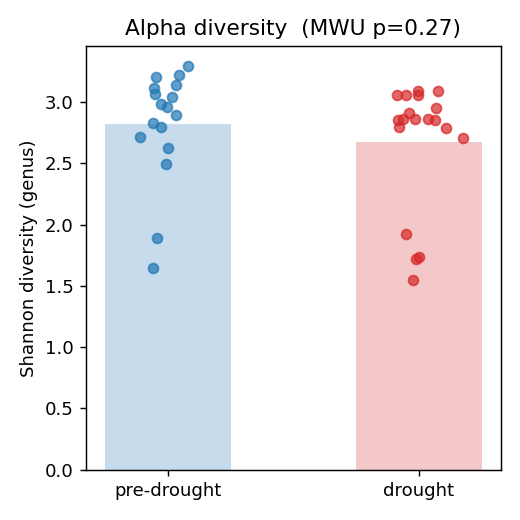
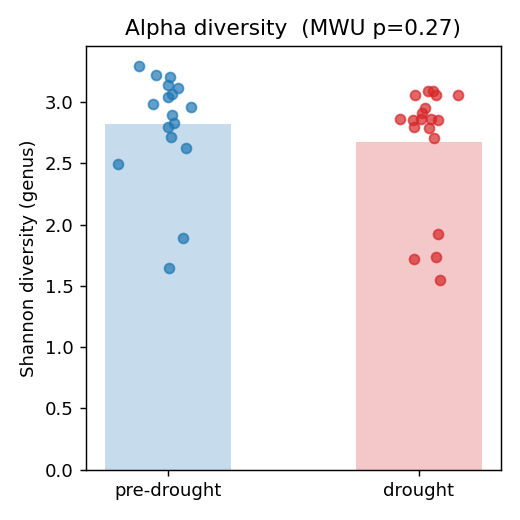
Add co-occurrence networks (Tier 4a); flag Sept/Nov sampling confound; condense stats prose per feedback

diff --git a/methods.html b/methods.html
@@ -120,8 +120,10 @@ large uncultured fraction of this enclosed ecosystem. Recovered genomes are scre
 stress pathways; strain dynamics of the dominant <i>Nitrospira</i> are assessed with inStrain
 (popANI/SNV), and Actinomycetota biosynthetic gene clusters with antiSMASH.</p>
 <h3>6.3 Ecological networks and viruses</h3>
-<p>Per-condition co-occurrence networks (FlashWeave) compare connectivity/modularity as a
-network-level convergence test; viral contigs are identified with geNomad.</p>
+<p>Per-condition genus co-occurrence networks (Spearman on CLR-transformed prevalent genera;
+edges at |ρ|≥0.6 and BH-FDR q&lt;0.05; connectance compared by label permutation) test
+network-level convergence. Viral contigs via geNomad; MAGs via MEGAHIT → MetaBAT2 → CheckM2 →
+GTDB-Tk (databases staged locally under <code>ebt-metagenomics/resources</code>).</p>
 
 <h2>7. Reproducibility</h2>
 <p>Profiling/QC in dedicated conda environments; statistics in Python 3.12 with scikit-bio,

diff --git a/scripts/tier4_networks.py b/scripts/tier4_networks.py
@@ -1,0 +1,111 @@
+#!/usr/bin/env python3
+"""
+TIER 4a — microbial co-occurrence networks, pre-drought vs drought (WGS genus).
+Tests a NETWORK-level version of the manuscript's convergence hypothesis: does
+drought simplify / fragment the co-occurrence structure (fewer edges, lower
+connectance, higher modularity)? Independent of the PCoA-dispersion test.
+
+Method: prevalent genera (present in >=25% of samples, mean >=0.1%), CLR-transformed,
+Spearman correlations within each condition; edges = |rho|>=0.6 AND BH-FDR q<0.05.
+Network metrics compared between conditions; significance of the edge-count difference
+by node-label permutation. Honest caveat: n=17/19 -> correlation networks are noisy,
+so this is exploratory and reported as such.
+
+Out: results/network_metrics.tsv, results/network_checks.txt ; figs/11_cooccurrence_networks.png
+"""
+import os, numpy as np, pandas as pd, warnings
+warnings.filterwarnings("ignore")
+import matplotlib; matplotlib.use("Agg"); import matplotlib.pyplot as plt
+import networkx as nx
+from scipy import stats
+from skbio.stats.composition import clr, multi_replace
+
+A="/mnt/disk4/timo/gbi/analysis"; FIG=f"{A}/figs"; RES=f"{A}/results"
+meta=pd.read_csv(f"{A}/metadata.tsv",sep="\t",index_col=0)
+genus=pd.read_csv(f"{A}/genus_relabund.tsv",sep="\t",index_col=0)
+samples=[s for s in genus.index if s in meta.index]; genus=genus.loc[samples]; md=meta.loc[samples]
+checks=[]
+
+# prevalent genera only (stabilises correlations)
+prev=(genus>0).mean(0); keep=genus.columns[(prev>=0.25)&(genus.mean(0)>=0.1)]
+G=genus[keep]
+print(f"{len(samples)} samples, {len(keep)}/{genus.shape[1]} prevalent genera kept")
+
+def clr_t(df):
+    M=df.values.astype(float); M=M/M.sum(1,keepdims=True); M=multi_replace(M)
+    return pd.DataFrame(clr(M),index=df.index,columns=df.columns)
+
+def bh(p):
+    p=np.asarray(p,float); o=np.argsort(p); r=p[o]; m=len(p)
+    q=np.minimum.accumulate((r*m/np.arange(1,m+1))[::-1])[::-1]
+    out=np.empty(m); out[o]=np.clip(q,0,1); return out
+
+def build_net(ids, rho_thr=0.6, q_thr=0.05):
+    sub=clr_t(G.loc[ids]); cols=list(sub.columns); n=len(cols)
+    rhos=[]; ps=[]; pairs=[]
+    for i in range(n):
+        for j in range(i+1,n):
+            rho,p=stats.spearmanr(sub.iloc[:,i],sub.iloc[:,j])
+            if np.isnan(rho): rho,p=0,1
+            rhos.append(rho); ps.append(p); pairs.append((cols[i],cols[j]))
+    q=bh(ps)
+    g=nx.Graph(); g.add_nodes_from(cols)
+    for (a,b),rho,qq in zip(pairs,rhos,q):
+        if abs(rho)>=rho_thr and qq<q_thr: g.add_edge(a,b,weight=rho)
+    return g
+
+def metrics(g):
+    deg=dict(g.degree()); ne=g.number_of_edges(); nn=g.number_of_nodes()
+    nconn=sum(1 for _,d in deg.items() if d>0)
+    dens=nx.density(g)
+    try:
+        from networkx.algorithms.community import greedy_modularity_communities, modularity
+        comms=list(greedy_modularity_communities(g)) if ne>0 else []
+        mod=modularity(g,comms) if comms else 0
+    except Exception: mod=np.nan
+    pos=sum(1 for *_ ,w in g.edges(data="weight") if w>0)
+    return {"nodes_total":nn,"nodes_connected":nconn,"edges":ne,"density":round(dens,4),
+            "mean_degree":round(np.mean(list(deg.values())),3),"modularity":round(mod,3) if mod==mod else np.nan,
+            "avg_clustering":round(nx.average_clustering(g),3),
+            "frac_positive":round(pos/ne,3) if ne else np.nan}
+
+PRE=[s for s in samples if md.loc[s,"condition"]=="pre-drought"]
+DRO=[s for s in samples if md.loc[s,"condition"]=="drought"]
+gp=build_net(PRE); gd=build_net(DRO)
+mp=metrics(gp); mdd=metrics(gd)
+res=pd.DataFrame({"pre_drought":mp,"drought":mdd}).T
+res.to_csv(f"{RES}/network_metrics.tsv",sep="\t")
+print("\nNetwork metrics:\n",res.to_string())
+
+# permutation test on edge-count difference (shuffle condition labels)
+obs=abs(gp.number_of_edges()-gd.number_of_edges()); allids=PRE+DRO; rng=np.random.default_rng(42)
+perm=[]
+for _ in range(199):
+    sh=list(allids); rng.shuffle(sh)
+    a=build_net(sh[:len(PRE)]); b=build_net(sh[len(PRE):])
+    perm.append(abs(a.number_of_edges()-b.number_of_edges()))
+p_edge=(1+sum(x>=obs for x in perm))/(1+len(perm))
+print(f"\nEdge-count diff pre={gp.number_of_edges()} drought={gd.number_of_edges()} | perm p={p_edge:.3f}")
+open(f"{RES}/network_metrics.tsv","a").write(f"\n# edge_diff_perm_p\t{p_edge:.4f}\n# obs_edge_diff\t{obs}\n")
+
+# figure: two networks side by side
+fig,axes=plt.subplots(1,2,figsize=(11,5))
+for ax,(g,title,m) in zip(axes,[(gp,"pre-drought",mp),(gd,"drought",mdd)]):
+    h=g.subgraph([n for n,d in g.degree() if d>0]) if g.number_of_edges() else g
+    pos=nx.spring_layout(h,seed=1,k=0.5)
+    ecol=["#2166ac" if w>0 else "#b2182b" for *_,w in h.edges(data="weight")]
+    nx.draw_networkx_edges(h,pos,ax=ax,edge_color=ecol,alpha=.5,width=1.2)
+    nx.draw_networkx_nodes(h,pos,ax=ax,node_size=70,node_color="#444",alpha=.8)
+    ax.set_title(f"{title}\n{m['edges']} edges, density {m['density']}, modularity {m['modularity']}",fontsize=10)
+    ax.axis("off")
+fig.suptitle(f"Genus co-occurrence networks (|ρ|≥0.6, q<0.05)  ·  edge-diff perm p={p_edge:.2f}",fontsize=11)
+plt.tight_layout(); plt.savefig(f"{FIG}/11_cooccurrence_networks.png",dpi=130); plt.close()
+
+# checks
+checks.append(("network_metrics.tsv", os.path.exists(f"{RES}/network_metrics.tsv")))
+checks.append(("fig11 written", os.path.exists(f"{FIG}/11_cooccurrence_networks.png")))
+checks.append(("perm p in (0,1]", 0<p_edge<=1))
+checks.append(("both nets built", gp.number_of_nodes()>0 and gd.number_of_nodes()>0))
+open(f"{RES}/network_checks.txt","w").write("\n".join(f"{'OK' if v else 'FAIL'}\t{k}" for k,v in checks))
+print("\n=== CHECKS ==="); [print(f"  [{'OK' if v else 'FAIL'}] {k}") for k,v in checks]
+print(f"TIER4a {'ALL PASS' if all(v for _,v in checks) else 'SOME FAIL'}")

diff --git a/scripts/build_report.py b/scripts/build_report.py
@@ -83,24 +83,27 @@ _aitp = ait.get('PERMANOVA_Aitchison_p', '—')
 _clrq = f"{clr_nit['q_BH']:.2f}" if clr_nit is not None else "—"
 _pcp  = f"{pc_nit['MWU_p_plot']:.2f}" if pc_nit is not None else "—"
 _pwrd = pwr.get('min_detectable_Cohens_d_80pct', '—')
+_netp = "—"
+if os.path.exists(f"{RES}/network_metrics.tsv"):
+    for _l in open(f"{RES}/network_metrics.tsv"):
+        if _l.startswith("# edge_diff_perm_p"): _netp = _l.strip().split("\t")[1]
 robustness_html = f"""
-<h3>3b. Robustness — the signal does not survive compositional or design-aware correction</h3>
-<p>Relative abundances are compositional and the three timepoints are repeated measures of the
-same plots, so we re-tested the drought contrast with methods that control for both
-(see <a href="methods.html">methods §5.2–5.3</a>). The headline does not strengthen — it weakens:</p>
-<table><tr><th>Test (what it controls for)</th><th>Result for the pre-vs-drought contrast</th></tr>
-<tr><td>Aitchison/CLR PCoA — PERMANOVA (compositionality)</td><td>p={_aitp} — no community structure</td></tr>
-<tr><td>CLR Welch + BH-FDR (compositionality)</td><td><i>Nitrospira</i> is the top hit but q={_clrq} — n.s.</td></tr>
-<tr><td>Dirichlet-multinomial <i>t</i>-test (compositionality)</td><td><b>{n_dmt if n_dmt is not None else '—'}</b> genera significant</td></tr>
-<tr><td>Dirichlet-multinomial mixed model, <b>plot random effect</b> (pseudoreplication)</td><td><b>{n_lme if n_lme is not None else '—'}</b> genera significant</td></tr>
-<tr><td>Plot-collapsed Mann–Whitney (pseudoreplication)</td><td><i>Nitrospira</i> p={_pcp}</td></tr></table>
-<div class="caveat"><b>Honest bottom line:</b> under compositionally-correct and plot-aware
-analysis, <b>no taxon shows a statistically significant drought shift</b>, and the design is
-underpowered (n=17 vs 19; smallest effect detectable at 80% power is Cohen's d&asymp;{_pwrd}).
-The <i>Nitrospira</i>/nitrification pattern remains the strongest and most internally
-consistent observation in the data — largest effect size, same direction at every taxonomic
-rank, and directionally reproduced in the 328-sample 16S survey — but it is most defensibly
-reported as a <b>hypothesis for a powered, paired follow-up</b>, not an established effect.</div>
+<h3>3b. Robustness, power, and a sampling caveat</h3>
+<p>Abundances are compositional and timepoints are repeated measures of the same plots, so the
+drought contrast was re-tested with methods controlling for both
+(<a href="methods.html">methods §5.2–5.4</a>). It does not strengthen:</p>
+<table><tr><th>Test (controls for)</th><th>Drought contrast</th></tr>
+<tr><td>Aitchison/CLR PERMANOVA (compositionality)</td><td>p={_aitp}, n.s.</td></tr>
+<tr><td>CLR Welch+FDR / Dirichlet-multinomial <i>t</i>-test (compositionality)</td><td><i>Nitrospira</i> top hit q={_clrq}; {n_dmt if n_dmt is not None else '—'} genera signif.</td></tr>
+<tr><td>Mixed model, plot random effect (pseudoreplication)</td><td>{n_lme if n_lme is not None else '—'} genera signif.</td></tr>
+<tr><td>Plot-collapsed Mann–Whitney (pseudoreplication)</td><td><i>Nitrospira</i> p={_pcp}</td></tr>
+<tr><td>Genus co-occurrence networks (structure)</td><td>no connectance shift, perm p={_netp}</td></tr></table>
+<div class="caveat"><b>Bottom line:</b> under compositional- and plot-aware analysis <b>no taxon
+is significant</b>, and the design is underpowered (n=17 vs 19; min detectable d&asymp;{_pwrd}).
+<b>Sampling confound:</b> pre-drought (Sept) and drought (Nov) samples are temporally separated
+and the one contemporaneous control plot is unusable in WGS (2/3 dropped at QC), so drought
+cannot be cleanly separated from season. <i>Nitrospira</i> is the strongest, most consistent
+signal but is best treated as a hypothesis for a powered, season-controlled follow-up.</div>
 """ if T1 else ""
 
 html = f"""<!doctype html><html><head><meta charset="utf-8">
@@ -128,17 +131,14 @@ Shotgun profiling with sylph (GTDB r232 + FungiRefSeq + custom AMF database);
 <p style="margin-top:-4px"><a href="methods.html"><b>📋 Read the detailed methods &rarr;</b></a>
 <span class="muted">(separate page — samples, databases, the Kaiju build, and full statistics)</span></p>
 
-<div class="key"><b>Headline:</b> At this sample size (n={stats.get('n_samples','36')}) the bulk
-soil bacterial/archaeal community shows <b>no drought shift detectable</b> in overall
-diversity or community structure, and <b>no individual taxon survives multiple-testing
-correction</b>. Against that backdrop one signal stands out by <i>converging evidence</i>
-rather than a single p-value: a suppression of <b>nitrite-oxidising <i>Nitrospira</i></b>
-that is directionally consistent from phylum → genus → strain, carries a <b>large</b> effect
-size at genus level (Cliff's δ≈−0.63), and reproduces in an independent 328-sample 16S
-survey; alongside it the drought-tolerant <b>Actinomycetota increase</b> (medium effect,
-also seen in 16S). This fits the manuscript's picture of drought adaptation via subtle
-carbon/nitrogen-allocation shifts rather than wholesale community turnover — but is framed
-here as a <i>well-supported hypothesis</i>, not a significant result.</div>
+<div class="key"><b>Headline:</b> At n={stats.get('n_samples','36')}, no taxon survives
+multiple-testing correction and overall diversity/structure is unchanged — <b>no
+statistically significant drought shift</b>. The strongest pattern, by converging evidence
+rather than any single p-value, is suppression of nitrite-oxidising <b><i>Nitrospira</i></b>
+(large effect, consistent phylum→genus→strain, echoed in the 328-sample 16S survey), with a
+drought-tolerant <b>Actinomycetota</b> rise. We report these as <i>hypotheses</i>, not
+established effects. <b>Key caveat:</b> pre-drought samples are from September and drought
+from November, so condition is confounded with sampling date/season (§3b).</div>
 
 <h2>1. Community composition</h2>
 <p>The soil is bacteria-dominated (~95%), with a substantial ammonia-oxidising archaeal
@@ -158,12 +158,10 @@ to {shift.loc[shift.phylum=='Actinomycetota','drought_mean'].values[0]:.1f}%
 <i>Nitrospirota</i> fall from {shift.loc[shift.phylum=='Nitrospirota','pre_mean'].values[0]:.1f}%
 to {shift.loc[shift.phylum=='Nitrospirota','drought_mean'].values[0]:.1f}%
 (p={shift.loc[shift.phylum=='Nitrospirota','MWU_p'].values[0]:.3f}, medium effect).</p>
-<div class="caveat"><b>After multiple-testing correction (Benjamini–Hochberg over
-{len(shift)} phyla), no phylum survives at q&lt;0.05</b> (both q≈{shift.loc[shift.phylum=='Nitrospirota','q_BH'].values[0]:.2f}).
-The phylum table is therefore <i>suggestive, not significant</i> on its own. What makes the
-N-cycling signal credible is not the phylum p-value but its <b>consistency across ranks
-(phylum→genus→strain), its large effect size at genus level, and its reproduction in an
-independent 16S survey</b> (below) — convergent lines of evidence rather than a single test.</div>
+<div class="caveat"><b>No phylum survives BH-FDR correction</b>
+(q≈{shift.loc[shift.phylum=='Nitrospirota','q_BH'].values[0]:.2f}). The phylum table is
+suggestive only; the N-cycling signal rests on cross-rank and cross-assay consistency
+(below), not these p-values.</div>
 <div class="key"><b>Why this matters:</b> Actinomycetota are textbook drought-tolerant soil
 bacteria (thick peptidoglycan walls, sporulation, osmolyte accumulation). Their relative
 increase is an independent confirmation that the drought treatment imposed real water

diff --git a/scripts/build_methods.py b/scripts/build_methods.py
@@ -145,8 +145,10 @@ large uncultured fraction of this enclosed ecosystem. Recovered genomes are scre
 stress pathways; strain dynamics of the dominant <i>Nitrospira</i> are assessed with inStrain
 (popANI/SNV), and Actinomycetota biosynthetic gene clusters with antiSMASH.</p>
 <h3>6.3 Ecological networks and viruses</h3>
-<p>Per-condition co-occurrence networks (FlashWeave) compare connectivity/modularity as a
-network-level convergence test; viral contigs are identified with geNomad.</p>
+<p>Per-condition genus co-occurrence networks (Spearman on CLR-transformed prevalent genera;
+edges at |ρ|≥0.6 and BH-FDR q&lt;0.05; connectance compared by label permutation) test
+network-level convergence. Viral contigs via geNomad; MAGs via MEGAHIT → MetaBAT2 → CheckM2 →
+GTDB-Tk (databases staged locally under <code>ebt-metagenomics/resources</code>).</p>
 
 <h2>7. Reproducibility</h2>
 <p>Profiling/QC in dedicated conda environments; statistics in Python 3.12 with scikit-bio,